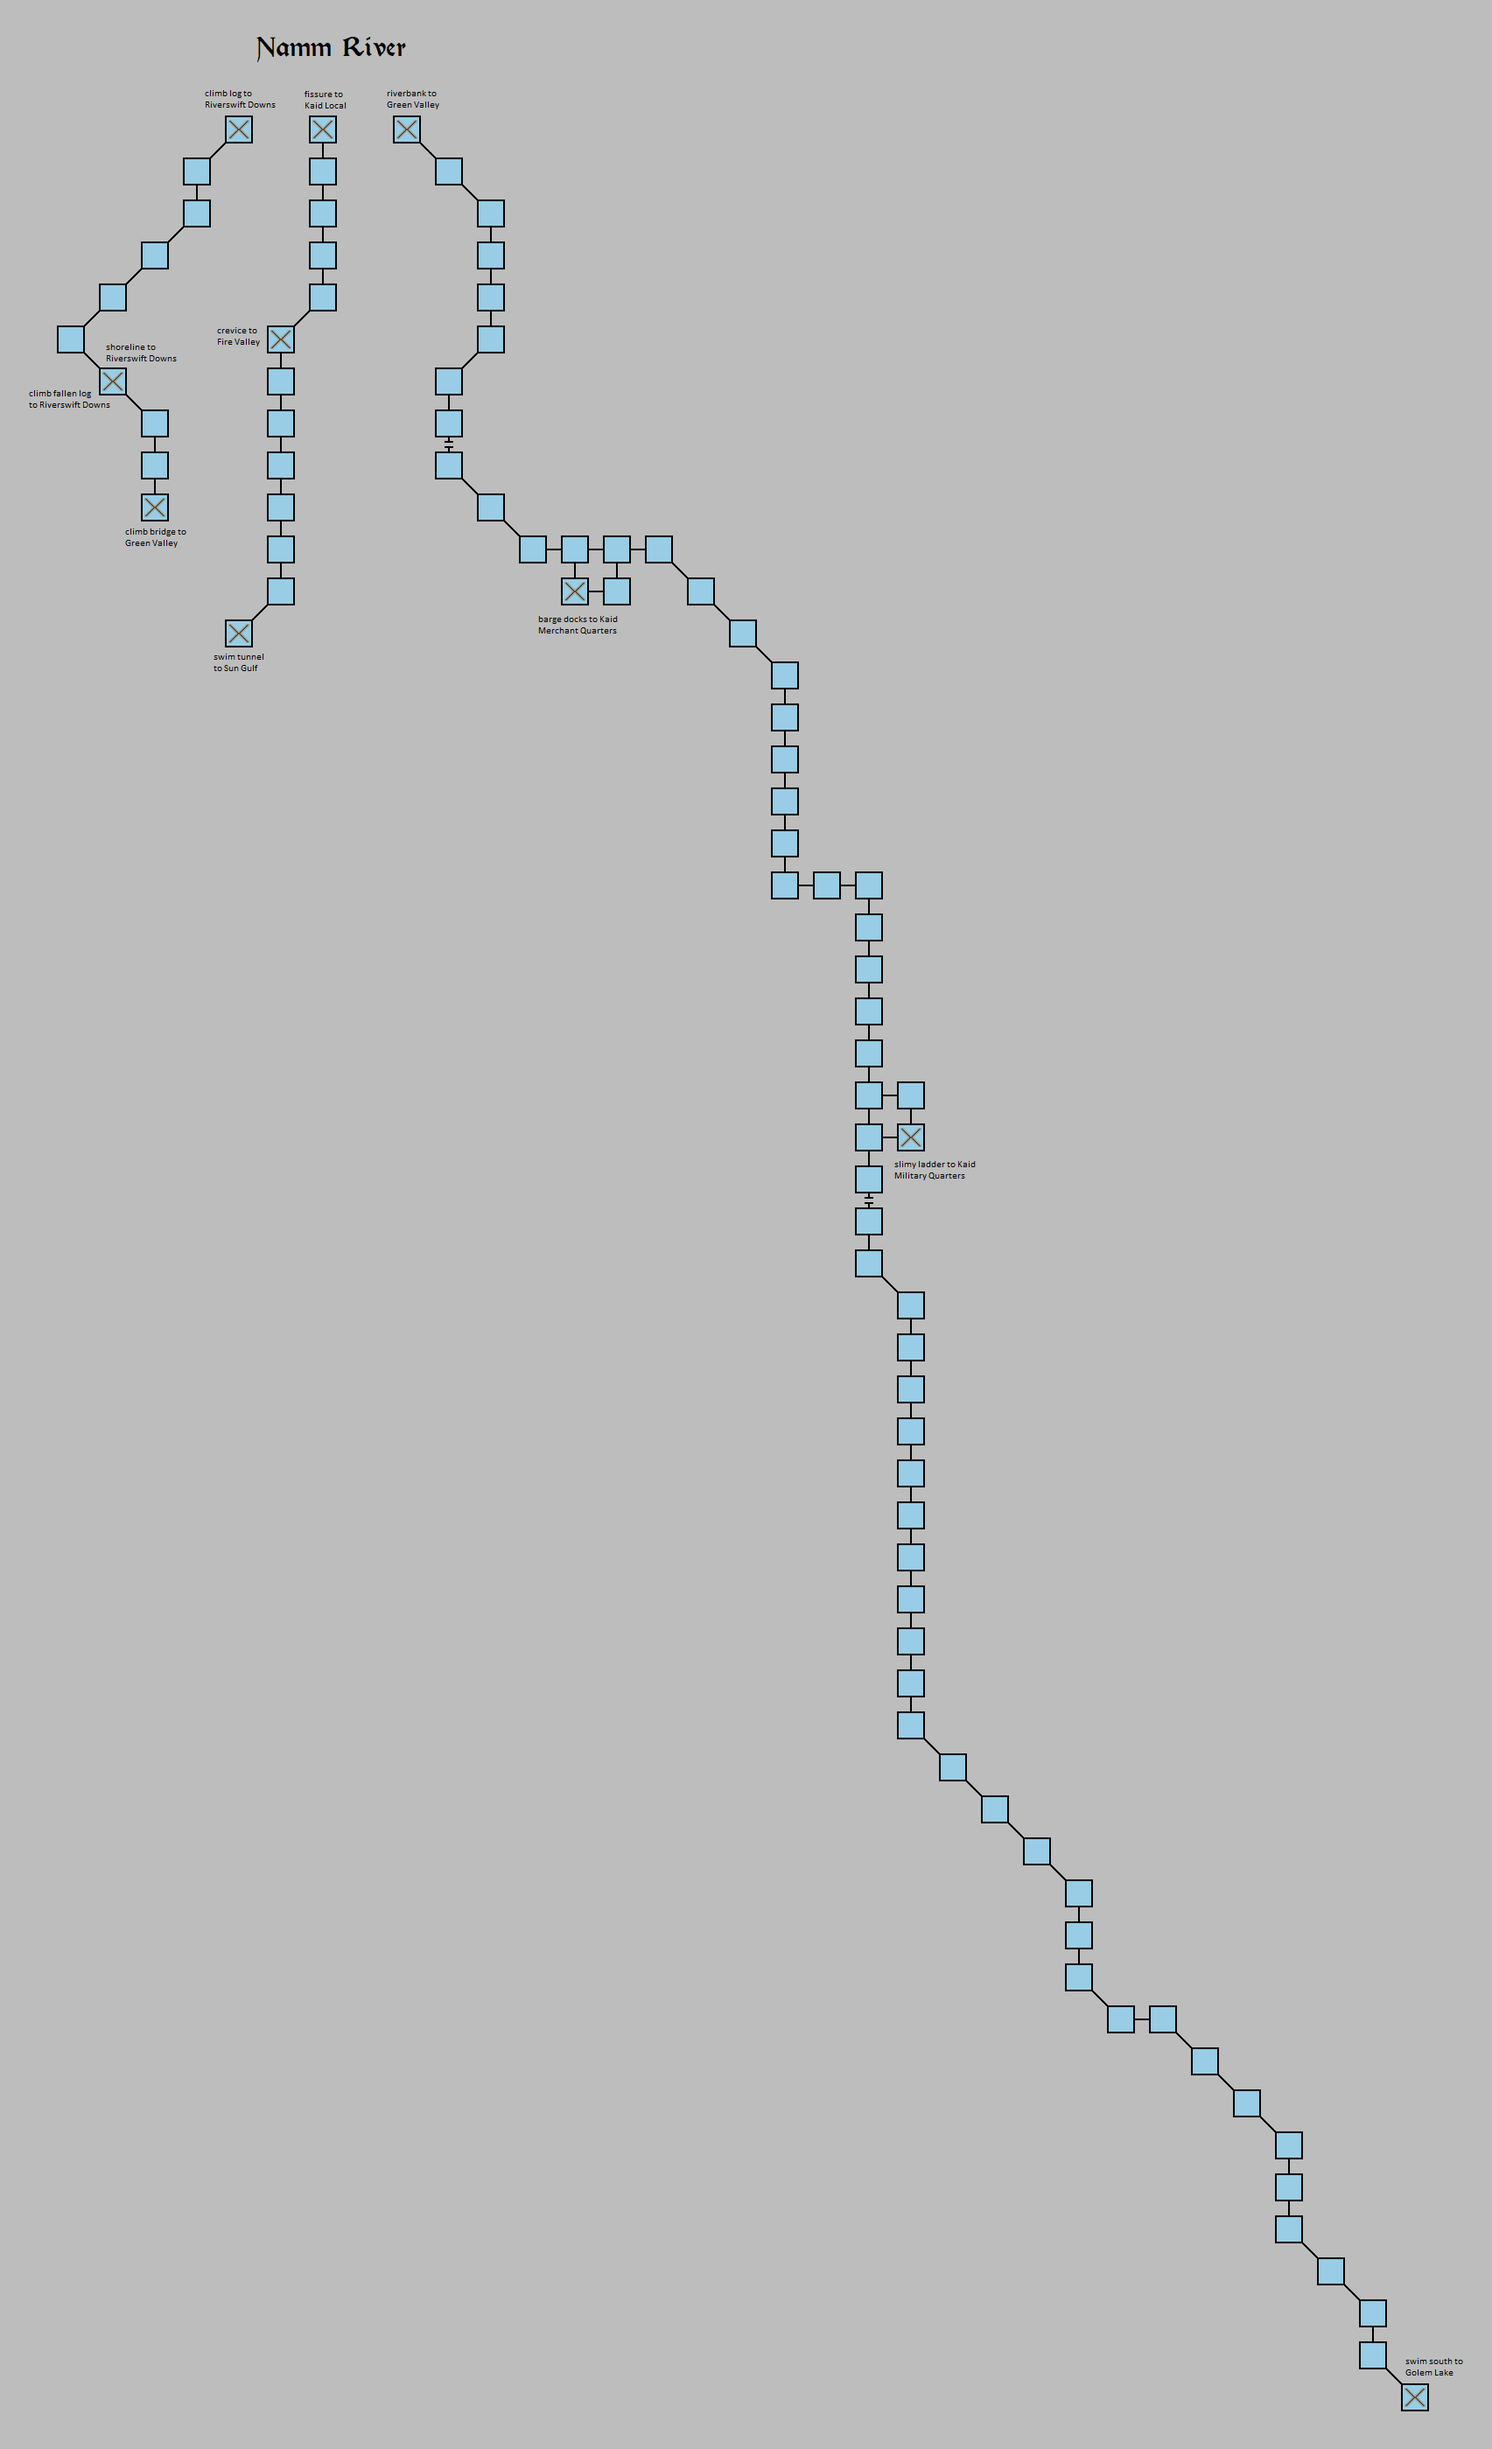
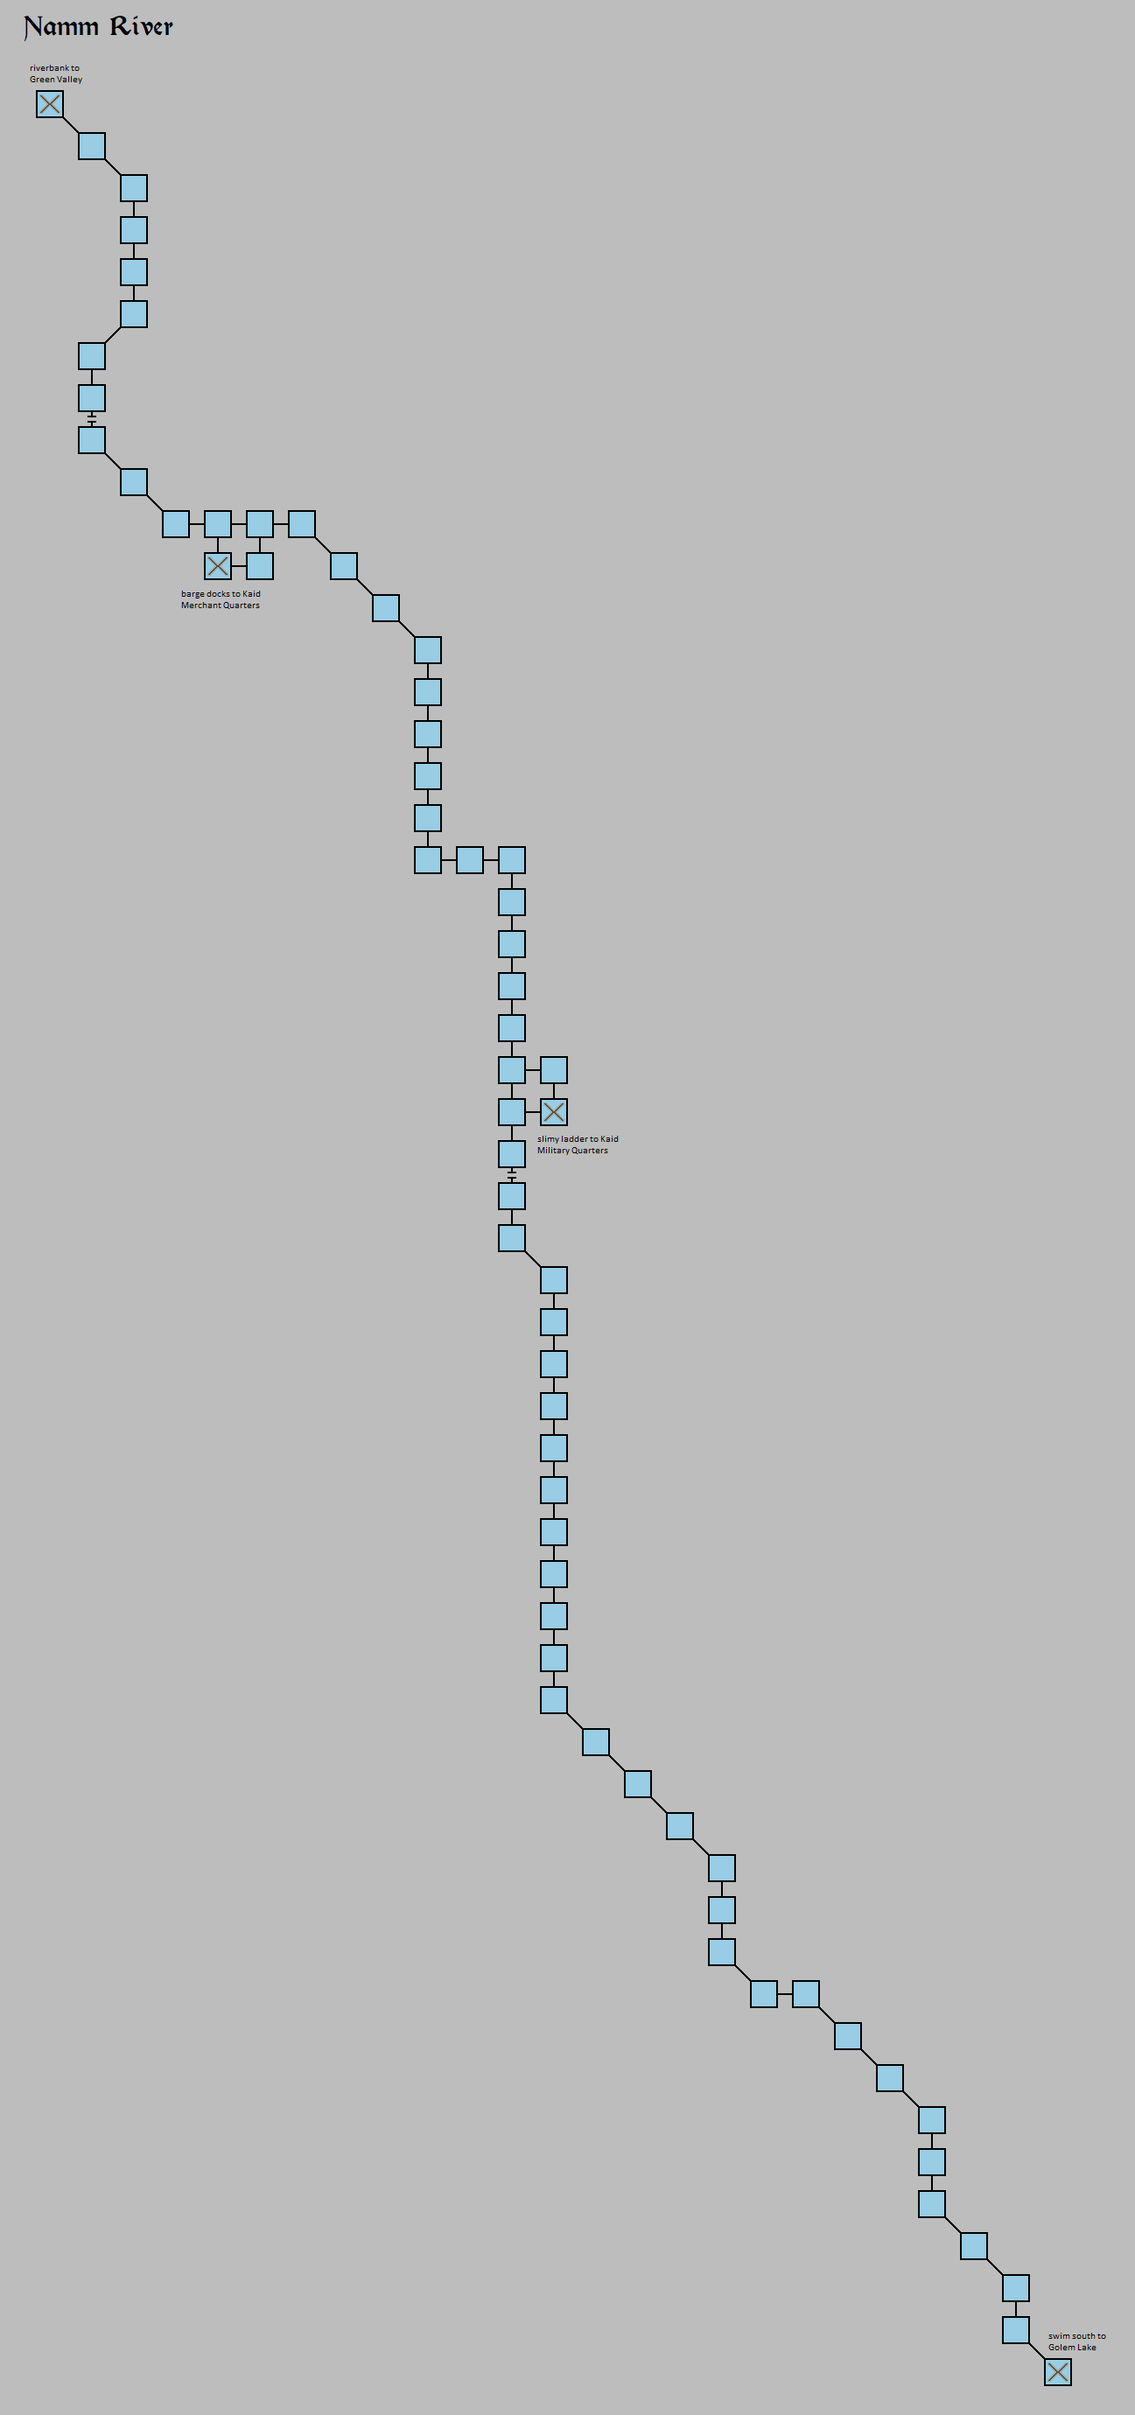
Split Namm River piece into its three disconnected branches
Namm River.png bundled three separate dead-end tributaries (Riverswift
Downs, Kaid Local, Green Valley/main trunk) into one giant image, which
is what was causing it to overlap so many unrelated pieces in the seed
layout. Split via pixel-level connected-component masks (not a plain
rectangle crop, since the branches' bounding boxes overlap even though
their pixels don't) into three files, each with the "Namm River" title
duplicated on. Re-ran the overlap-separation pass across the resulting
54-piece Kaid set.

diff --git a/js/data/realm-seed-layout.js b/js/data/realm-seed-layout.js
@@ -6,57 +6,59 @@
 // localStorage save exists for a realm -- see renderRealm() in realm-builder.js.
 const REALM_SEED_LAYOUT = {
   kaid: {
-    "Al'Nomi Graveyard.png": { x: 2092, y: 2425 },
+    "Al'Nomi Graveyard.png": { x: 2090, y: 2423 },
     "Azulago Village.png": { x: 1335, y: 3582 },
-    "Buccaneer's Den Cemetery.png": { x: 2655, y: 3187 },
-    "Buccaneer's Den.png": { x: 2536, y: 3584 },
-    "Cave of Fury.png": { x: 770, y: -891 },
-    "Clockwork.png": { x: 88, y: -467 },
-    "Dire Mountains.png": { x: 184, y: 3670 },
+    "Buccaneer's Den Cemetery.png": { x: 2653, y: 3188 },
+    "Buccaneer's Den.png": { x: 2536, y: 3585 },
+    "Cave of Fury.png": { x: 770, y: -892 },
+    "Clockwork.png": { x: 86, y: -468 },
+    "Dire Mountains.png": { x: 184, y: 3669 },
     "Dunes of Al'Kafi.png": { x: -125, y: 5505 },
-    "Elven Nation Borders.png": { x: -76, y: -1285 },
-    "Emperor's Palace.png": { x: 5242, y: 4334 },
-    "Field of Sorrow.png": { x: 2859, y: 2398 },
-    "Fire Valley.png": { x: 2175, y: 1735 },
-    "Forked Tongue.png": { x: 2573, y: 4503 },
-    "Freehold Cemetery.png": { x: 4719, y: 1835 },
-    "Freehold Coast.png": { x: 3816, y: 2627 },
-    "Freehold Sea.png": { x: 4547, y: 2484 },
-    "Freehold.png": { x: 3816, y: 2098 },
-    "Fury Mountains.png": { x: -375, y: -88 },
-    "Golem Lake.png": { x: 1408, y: 4047 },
-    "Green Valley.png": { x: 1386, y: 634 },
-    "Imperial City of Kaid.png": { x: 939, y: 6289 },
-    "Kaid Arena.png": { x: 3997, y: 3915 },
-    "Kaid Government Quarters.png": { x: 4491, y: 4541 },
-    "Kaid Local.png": { x: 1453, y: 1544 },
-    "Kaid Merchant Quarters.png": { x: -107, y: 2787 },
-    "Kaid Military Quarters.png": { x: 417, y: 4652 },
-    "Kaid Religious Quarters.png": { x: 3293, y: 3701 },
+    "Elven Nation Borders.png": { x: -77, y: -1286 },
+    "Emperor's Palace.png": { x: 5242, y: 4336 },
+    "Field of Sorrow.png": { x: 2858, y: 2398 },
+    "Fire Valley.png": { x: 2176, y: 1735 },
+    "Forked Tongue.png": { x: 2575, y: 4504 },
+    "Freehold Cemetery.png": { x: 4748, y: 1832 },
+    "Freehold Coast.png": { x: 3815, y: 2629 },
+    "Freehold Sea.png": { x: 4546, y: 2484 },
+    "Freehold.png": { x: 3819, y: 2100 },
+    "Fury Mountains.png": { x: -374, y: -89 },
+    "Golem Lake.png": { x: 1411, y: 4047 },
+    "Green Valley.png": { x: 1415, y: 631 },
+    "Imperial City of Kaid.png": { x: 939, y: 6288 },
+    "Kaid Arena.png": { x: 3997, y: 3913 },
+    "Kaid Government Quarters.png": { x: 4491, y: 4539 },
+    "Kaid Local.png": { x: 1454, y: 1544 },
+    "Kaid Merchant Quarters.png": { x: -108, y: 2786 },
+    "Kaid Military Quarters.png": { x: 415, y: 4651 },
+    "Kaid Religious Quarters.png": { x: 3293, y: 3702 },
     "Kaid Slum Quarters.png": { x: 3357, y: 4476 },
-    "Kaid Wilderness.png": { x: 1787, y: 2907 },
-    "Kercpa Lair.png": { x: 3550, y: 1229 },
-    "Long John's Hideout.png": { x: 202, y: 1969 },
-    "Nahaz Bay.png": { x: 513, y: 5505 },
-    "Namm River.png": { x: -2085, y: 1244 },
+    "Kaid Wilderness.png": { x: 1786, y: 2907 },
+    "Kercpa Lair.png": { x: 3579, y: 1231 },
+    "Long John's Hideout.png": { x: 199, y: 1968 },
+    "Nahaz Bay.png": { x: 513, y: 5504 },
+    "Namm River (Kaid Local Branch).png": { x: -1917, y: 1275 },
+    "Namm River (Riverswift Downs Branch).png": { x: -2279, y: 1302 },
+    "Namm River.png": { x: -1648, y: 1276 },
     "Nosho Rainforest.png": { x: 1040, y: 5505 },
-    "Oyster Bay.png": { x: 240, y: 6784 },
-    "Pacific Lowlands.png": { x: 3956, y: 1233 },
-    "Peaks of Ahrimal.png": { x: 1744, y: 4590 },
-    "Plains of Helk.png": { x: 2455, y: 2430 },
-    "Planes of Suffering.png": { x: -1115, y: 4832 },
-    "River Valley.png": { x: 1126, y: 2892 },
-    "Riverswift Downs.png": { x: -340, y: 1247 },
-    "Ruins of Helk.png": { x: 2065, y: 565 },
-    "Sun Gulf.png": { x: -530, y: 4083 },
+    "Oyster Bay.png": { x: 240, y: 6787 },
+    "Pacific Lowlands.png": { x: 3985, y: 1235 },
+    "Peaks of Ahrimal.png": { x: 1743, y: 4590 },
+    "Plains of Helk.png": { x: 2454, y: 2431 },
+    "Planes of Suffering.png": { x: -1115, y: 4833 },
+    "River Valley.png": { x: 1125, y: 2892 },
+    "Riverswift Downs.png": { x: -311, y: 1246 },
+    "Ruins of Helk.png": { x: 2094, y: 565 },
+    "Sun Gulf.png": { x: -530, y: 4081 },
     "Temple of Ahrimal.png": { x: 2035, y: 3647 },
-    "Terngild, Lost City of Gold.png": { x: 2285, y: 6289 },
+    "Terngild, Lost City of Gold.png": { x: 2282, y: 6288 },
     "Thousand Falls.png": { x: 2438, y: 5238 },
-    "Timetold Range.png": { x: 460, y: 274 },
-    "Tokat Bamboo Forest.png": { x: 1670, y: 5505 },
-    "Town of Green Hills.png": { x: 1, y: 683 },
-    "Vale Fort.png": { x: 813, y: 3749 },
-    "Village of Al'Nomi.png": { x: 1281, y: 2195 },
+    "Timetold Range.png": { x: 489, y: 271 },
+    "Tokat Bamboo Forest.png": { x: 1670, y: 5504 },
+    "Town of Green Hills.png": { x: 1, y: 682 },
+    "Vale Fort.png": { x: 813, y: 3752 },
+    "Village of Al'Nomi.png": { x: 1283, y: 2195 },
     "Xian Forest.png": { x: -190, y: 6090 },
   },
   evil: {

diff --git a/realm-builder.html b/realm-builder.html
@@ -5,7 +5,7 @@
 <meta name="viewport" content="width=device-width, initial-scale=1.0">
 <title>Realm Builder — Land of Olmran</title>
 <link rel="stylesheet" href="https://unpkg.com/leaflet@1.9.4/dist/leaflet.css" integrity="sha256-p4NxAoJBhIIN+hmNHrzRCf9tD/miZyoHS5obTRR9BMY=" crossorigin="" />
-<link rel="stylesheet" href="css/realm-builder.css?v=5">
+<link rel="stylesheet" href="css/realm-builder.css?v=6">
 </head>
 <body>
 
@@ -43,9 +43,9 @@
 </div>
 
 <script src="https://unpkg.com/leaflet@1.9.4/dist/leaflet.js" integrity="sha256-20nQCchB9co0qIjJZRGuk2/Z9VM+kNiyxNV1lvTlZBo=" crossorigin=""></script>
-<script src="js/data/dev-accounts.js?v=5"></script>
-<script src="js/data/realm-pieces.js?v=5"></script>
-<script src="js/data/realm-seed-layout.js?v=5"></script>
-<script src="js/realm-builder.js?v=5"></script>
+<script src="js/data/dev-accounts.js?v=6"></script>
+<script src="js/data/realm-pieces.js?v=6"></script>
+<script src="js/data/realm-seed-layout.js?v=6"></script>
+<script src="js/realm-builder.js?v=6"></script>
 </body>
 </html>

diff --git a/js/data/realm-pieces.js b/js/data/realm-pieces.js
@@ -38,7 +38,9 @@ const REALM_PIECES = {
     { file: "Kercpa Lair.png", width: 366, height: 505 },
     { file: "Long John's Hideout.png", width: 1039, height: 778 },
     { file: "Nahaz Bay.png", width: 487, height: 693 },
-    { file: "Namm River.png", width: 1705, height: 2799 },
+    { file: "Namm River.png", width: 1297, height: 2760 },
+    { file: "Namm River (Riverswift Downs Branch).png", width: 322, height: 601 },
+    { file: "Namm River (Kaid Local Branch).png", width: 229, height: 771 },
     { file: "Nosho Rainforest.png", width: 590, height: 630 },
     { file: "Oyster Bay.png", width: 494, height: 494 },
     { file: "Pacific Lowlands.png", width: 723, height: 825 },
